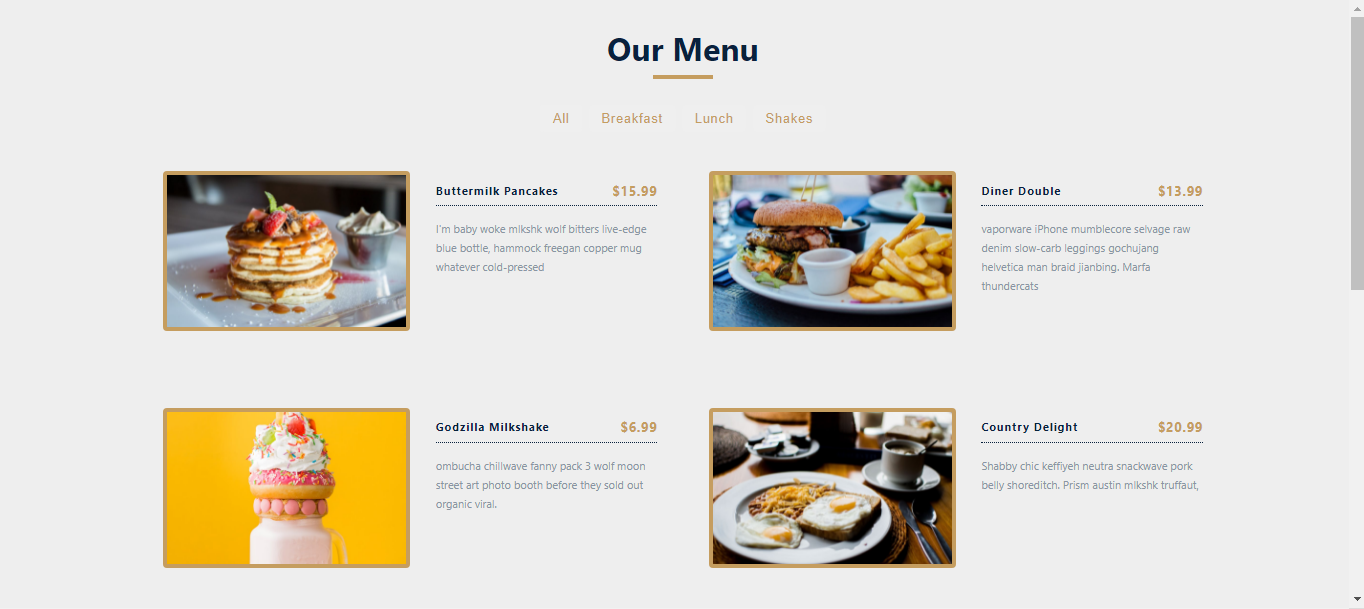
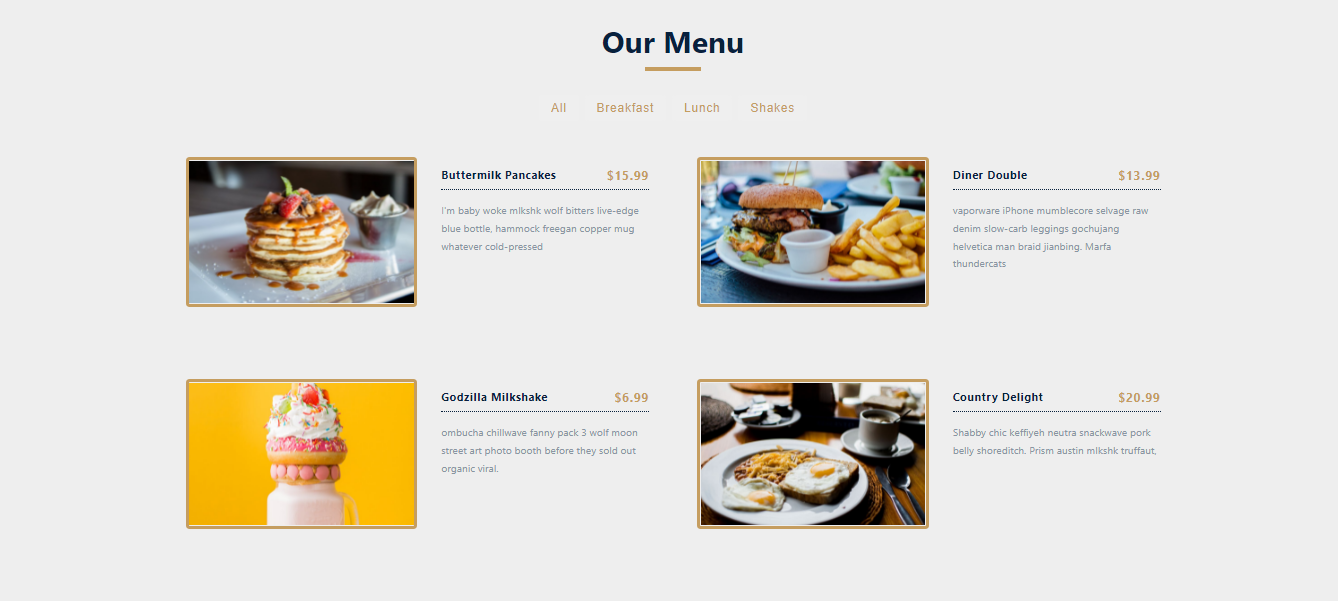
resposive img done

diff --git a/00-my-react-projects/src/components/sectionProjects.css b/00-my-react-projects/src/components/sectionProjects.css
@@ -47,7 +47,8 @@
 	border-bottom-left-radius: 4px;
 }
 .card-img {
-	height: 200px;
+	/* height: 200px; */
+	object-fit: contain;
 	border-bottom: 1px solid var(--primary-color-500);
 	border-top-right-radius: 4px;
 	border-top-left-radius: 4px;
